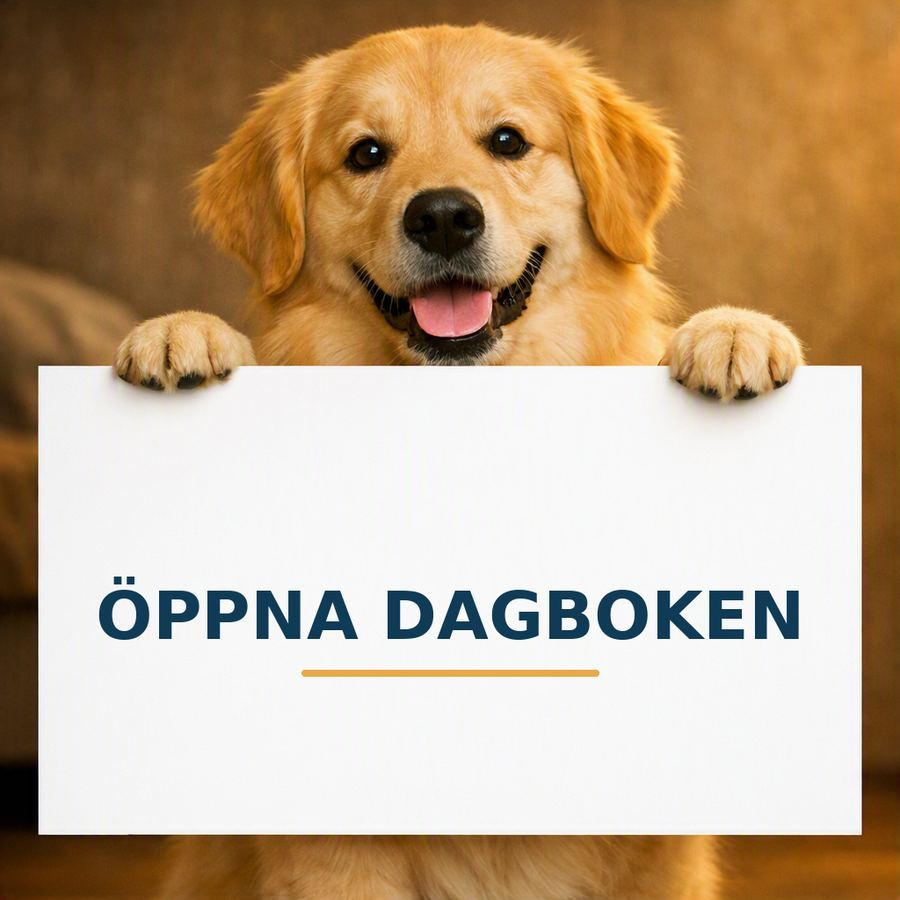
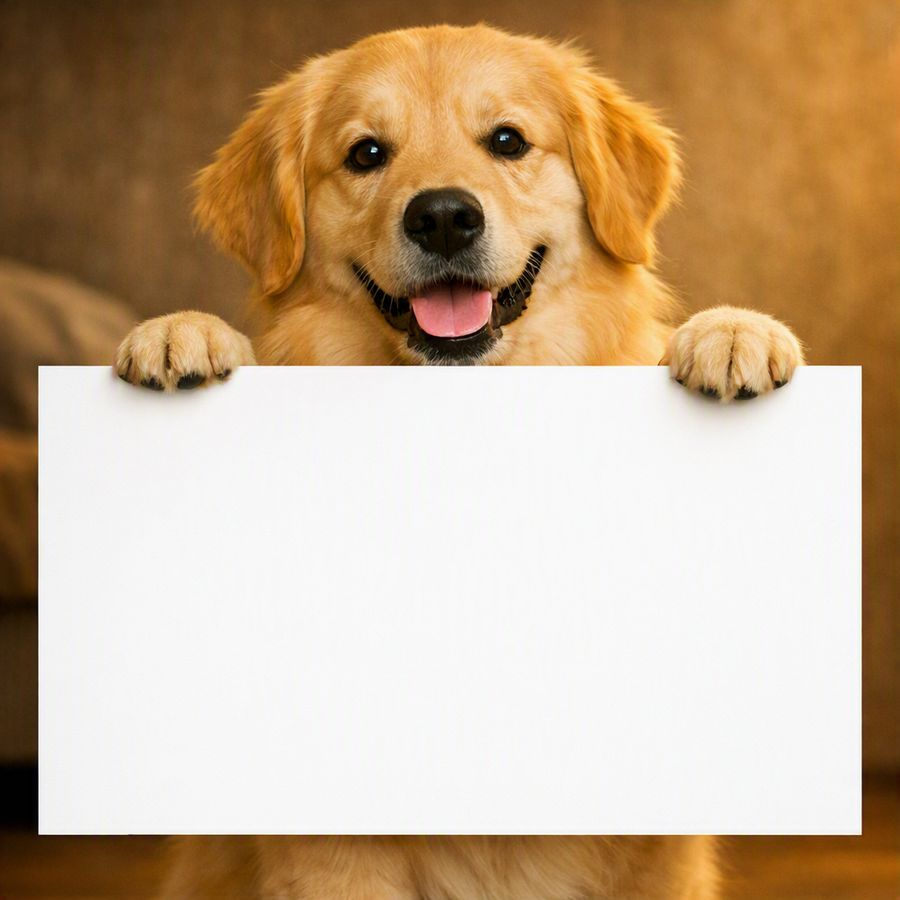
Add files via upload

Changed region(s): [[0.0933, 0.6222, 0.9022, 0.7778]]

diff --git a/styles.css b/styles.css
@@ -344,9 +344,21 @@ footer{flex-wrap:wrap}
 .dagbok-sign-heading-link .kicker{display:block}
 .dagbok-sign-heading{margin:0;font:700 clamp(28px,4vw,42px)/1.05 Fraunces,serif;color:var(--pine);transition:color .15s ease}
 .dagbok-sign-heading-link:hover .dagbok-sign-heading,.dagbok-sign-heading-link:focus-visible .dagbok-sign-heading{color:var(--pine2)}
-.dagbok-sign-link{display:inline-block;border-radius:24px}
+.dagbok-sign-link{position:relative;display:inline-block;border-radius:24px;container-type:inline-size}
 .dagbok-sign-link img{max-width:420px;width:100%;border-radius:24px;box-shadow:0 18px 44px #0f3b5726;transition:transform .2s ease,box-shadow .2s ease;display:block;margin:0 auto}
 .dagbok-sign-link:hover img,.dagbok-sign-link:focus-visible img{transform:translateY(-4px);box-shadow:0 22px 50px #0f3b5736}
+.dagbok-sign-link:hover .dagbok-sign-overlay,.dagbok-sign-link:focus-visible .dagbok-sign-overlay{transform:translateY(-4px)}
+.dagbok-sign-overlay{position:absolute;top:46%;left:8%;right:8%;bottom:10%;display:flex;flex-direction:column;align-items:center;justify-content:center;gap:12px;pointer-events:none;transition:transform .2s ease}
+.dagbok-sign-overlay{gap:clamp(8px,3cqw,16px)}
+.dagbok-sign-overlay-text{font:800 22px/1.2 "DM Sans",sans-serif;letter-spacing:.01em;text-transform:uppercase;color:var(--pine);text-align:center}
+.dagbok-sign-overlay-text{font-size:clamp(15px,7.4cqw,30px)}
+.dagbok-sign-overlay-bar{width:40%;height:5px;border-radius:4px;background:var(--amber)}
+.dagbok-sign-overlay-bar{height:clamp(3px,1cqw,6px)}
+@supports not (container-type: inline-size){
+  .dagbok-sign-overlay-text{font-size:clamp(15px,6.5vw,30px)}
+  .dagbok-sign-overlay-bar{height:4px}
+  .dagbok-sign-overlay{gap:12px}
+}
 .dagbok-sign-caption{max-width:380px;margin:18px auto 0;color:var(--muted);font-size:14.5px;line-height:1.6}
 @media(max-width:520px){.dagbok-sign-block{padding:0 18px 64px}}
 .donate-note{color:var(--muted);font-size:13px;margin-top:12px}

diff --git a/index.html b/index.html
@@ -439,8 +439,12 @@
     <a class="dagbok-sign-link" href="logga.html" aria-label="Open the daily diary" data-i18n-aria-label="dagbokSignAriaLabel">
       <picture>
         <source srcset="assets/skylt-dagbok.webp" type="image/webp">
-        <img src="assets/skylt-dagbok.jpg" alt="Golden retriever holding a sign that says Open the diary" data-i18n-alt="dagbokSignImgAlt" loading="lazy" decoding="async" width="900" height="900">
+        <img src="assets/skylt-dagbok.jpg" alt="Golden retriever holding a blank sign" data-i18n-alt="dagbokSignImgAlt" loading="lazy" decoding="async" width="900" height="900">
       </picture>
+      <span class="dagbok-sign-overlay" aria-hidden="true">
+        <span class="dagbok-sign-overlay-text" data-i18n="dagbokSignOverlayText">ÖPPNA DAGBOKEN</span>
+        <span class="dagbok-sign-overlay-bar"></span>
+      </span>
     </a>
     <p class="dagbok-sign-caption" data-i18n="dagbokSignCaption">Click the sign (or the heading above) to open your dog's daily diary.</p>
   </div>
